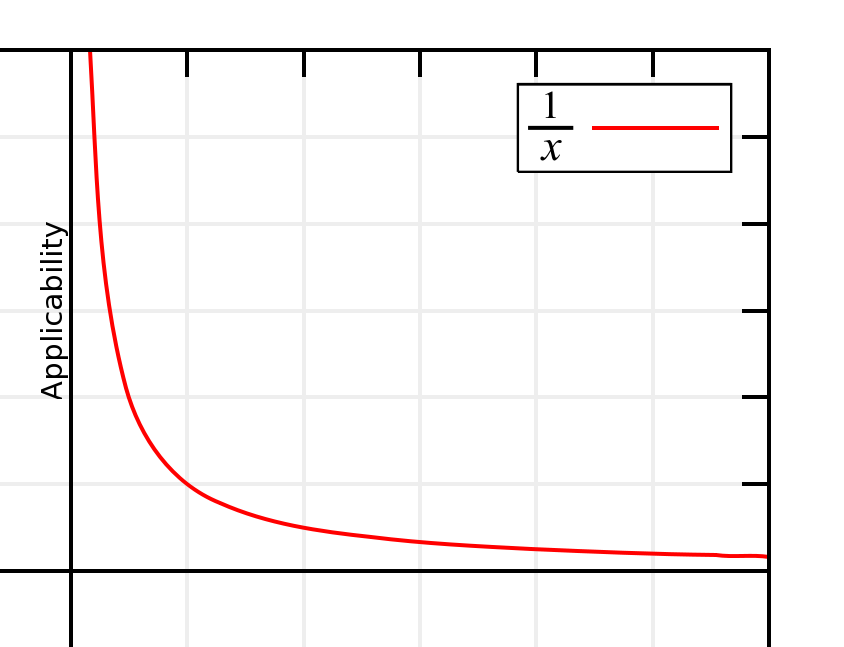
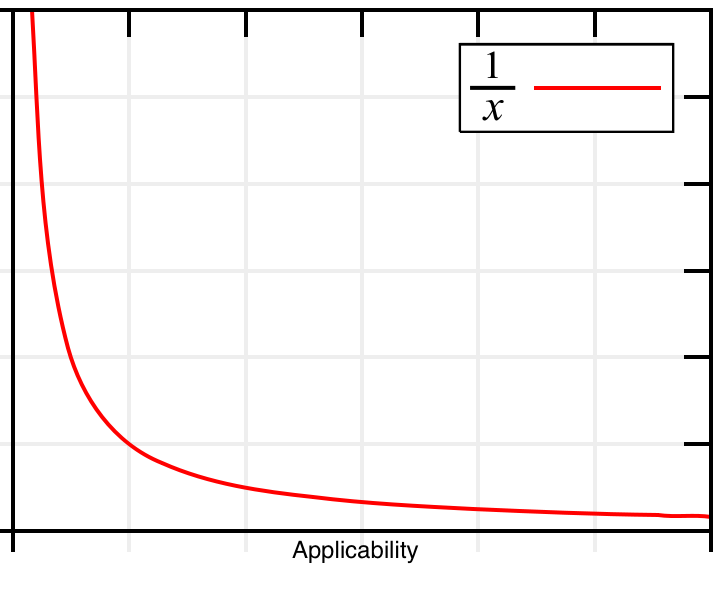
corrected punctuation on quote, removed design philosophy slide, fixed axis on asymptote graph

Changed region(s): [[0.0, 0.0, 1.0, 1.0], [0.1215, 0.599, 0.3343, 0.8087]]

diff --git a/soap_box_early_2012/index.html b/soap_box_early_2012/index.html
@@ -245,9 +245,6 @@
       <h1>who designed this?</h1>
     </div>
     <div class="slide">
-      <h1>what is your design philosophy?</h1>
-    </div>
-    <div class="slide">
       <h1>ethics of teaching design</h1>
     </div>
 
@@ -283,7 +280,7 @@
       <h1 class="header">on specialists and generalists</h1>
     </div>
     <div class="slide">
-      <p class="quote">Maybe knowledge is too great and maybe men are growing too small," Said lee. "Maybe, kneeling down to atoms, they're becoming atom-sized in their souls. Maybe a specialist is only a coward, afraid to look out his own little cage. And to think what a specialist misses-- the whole world over his fence.</p>
+      <p class="quote">"Maybe knowledge is too great and maybe men are growing too small," Said lee. "Maybe, kneeling down to atoms, they're becoming atom-sized in their souls. Maybe a specialist is only a coward, afraid to look out his own little cage. And to think what a specialist misses-- the whole world over his fence.</p>
       <p class="author">Join Steinbeck - East of Eden</p>
     </div>
     <div class="slide">
